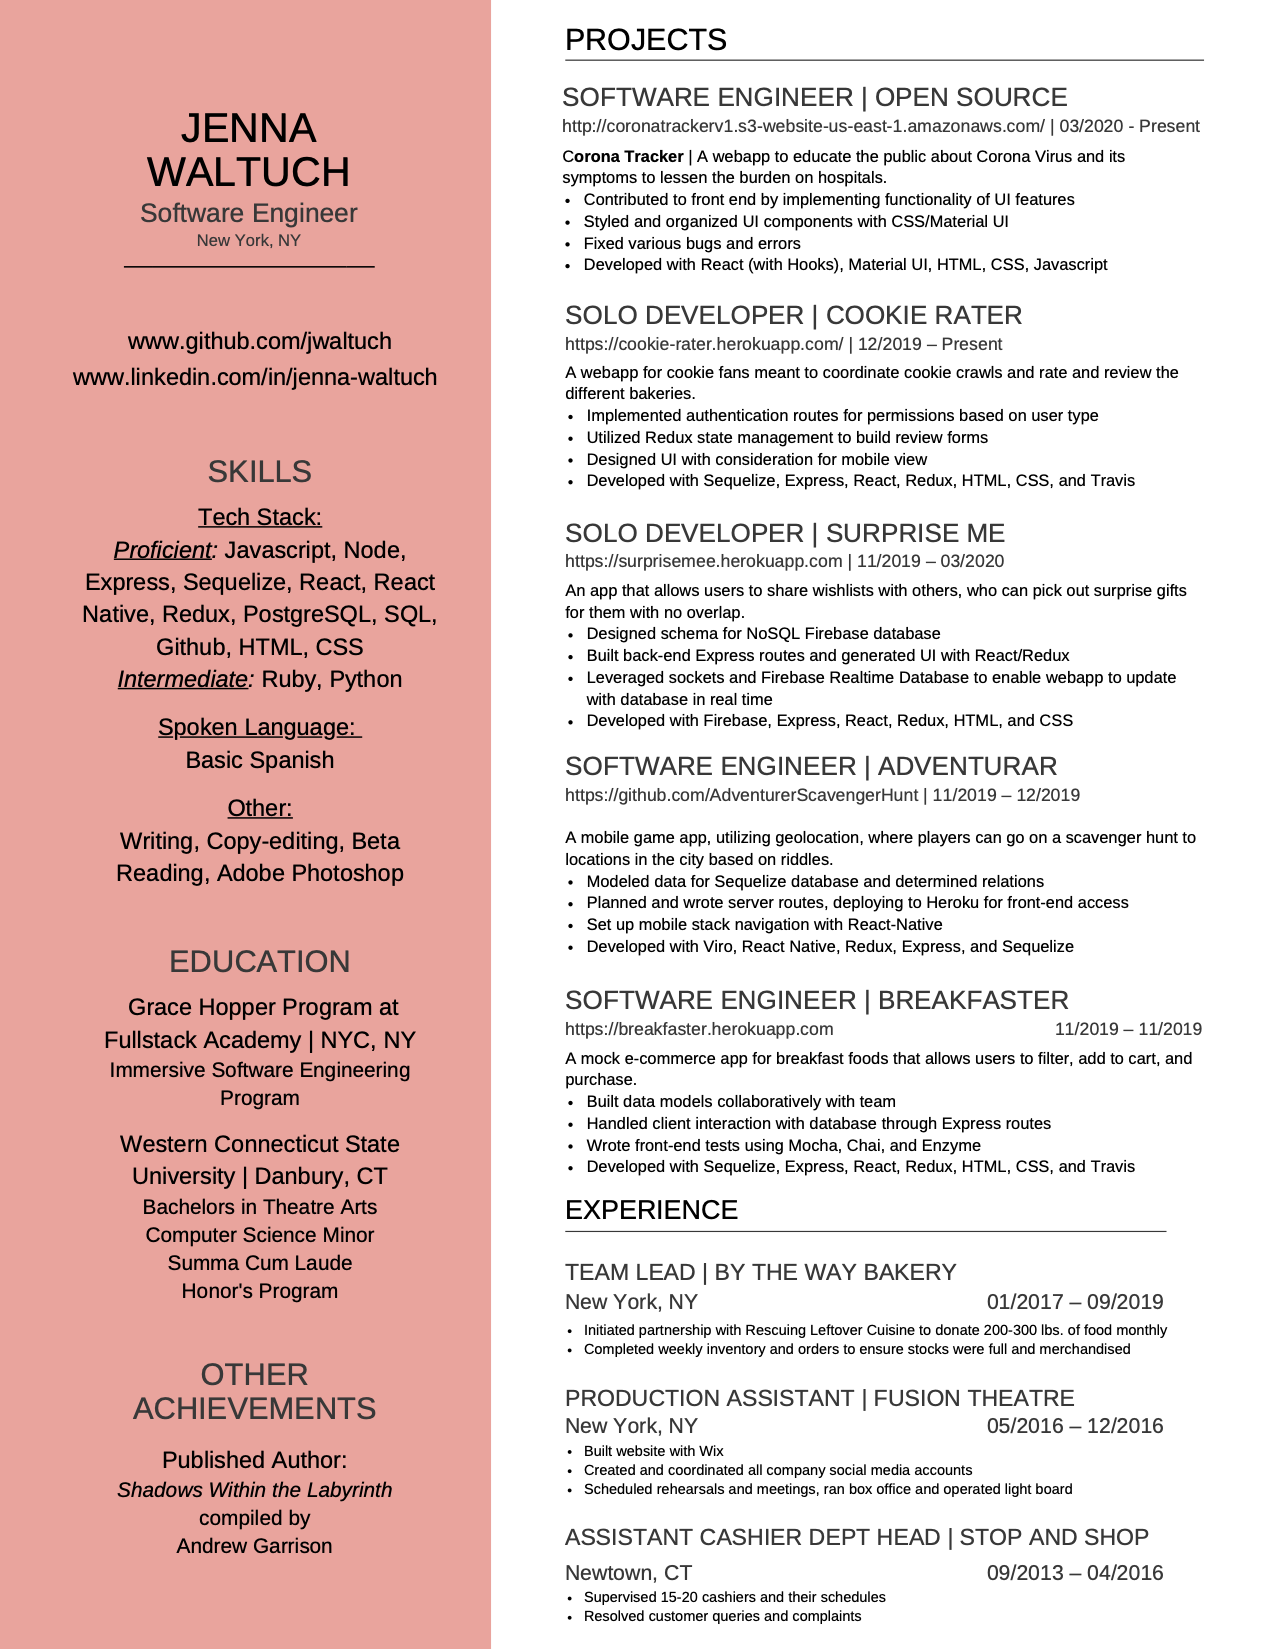
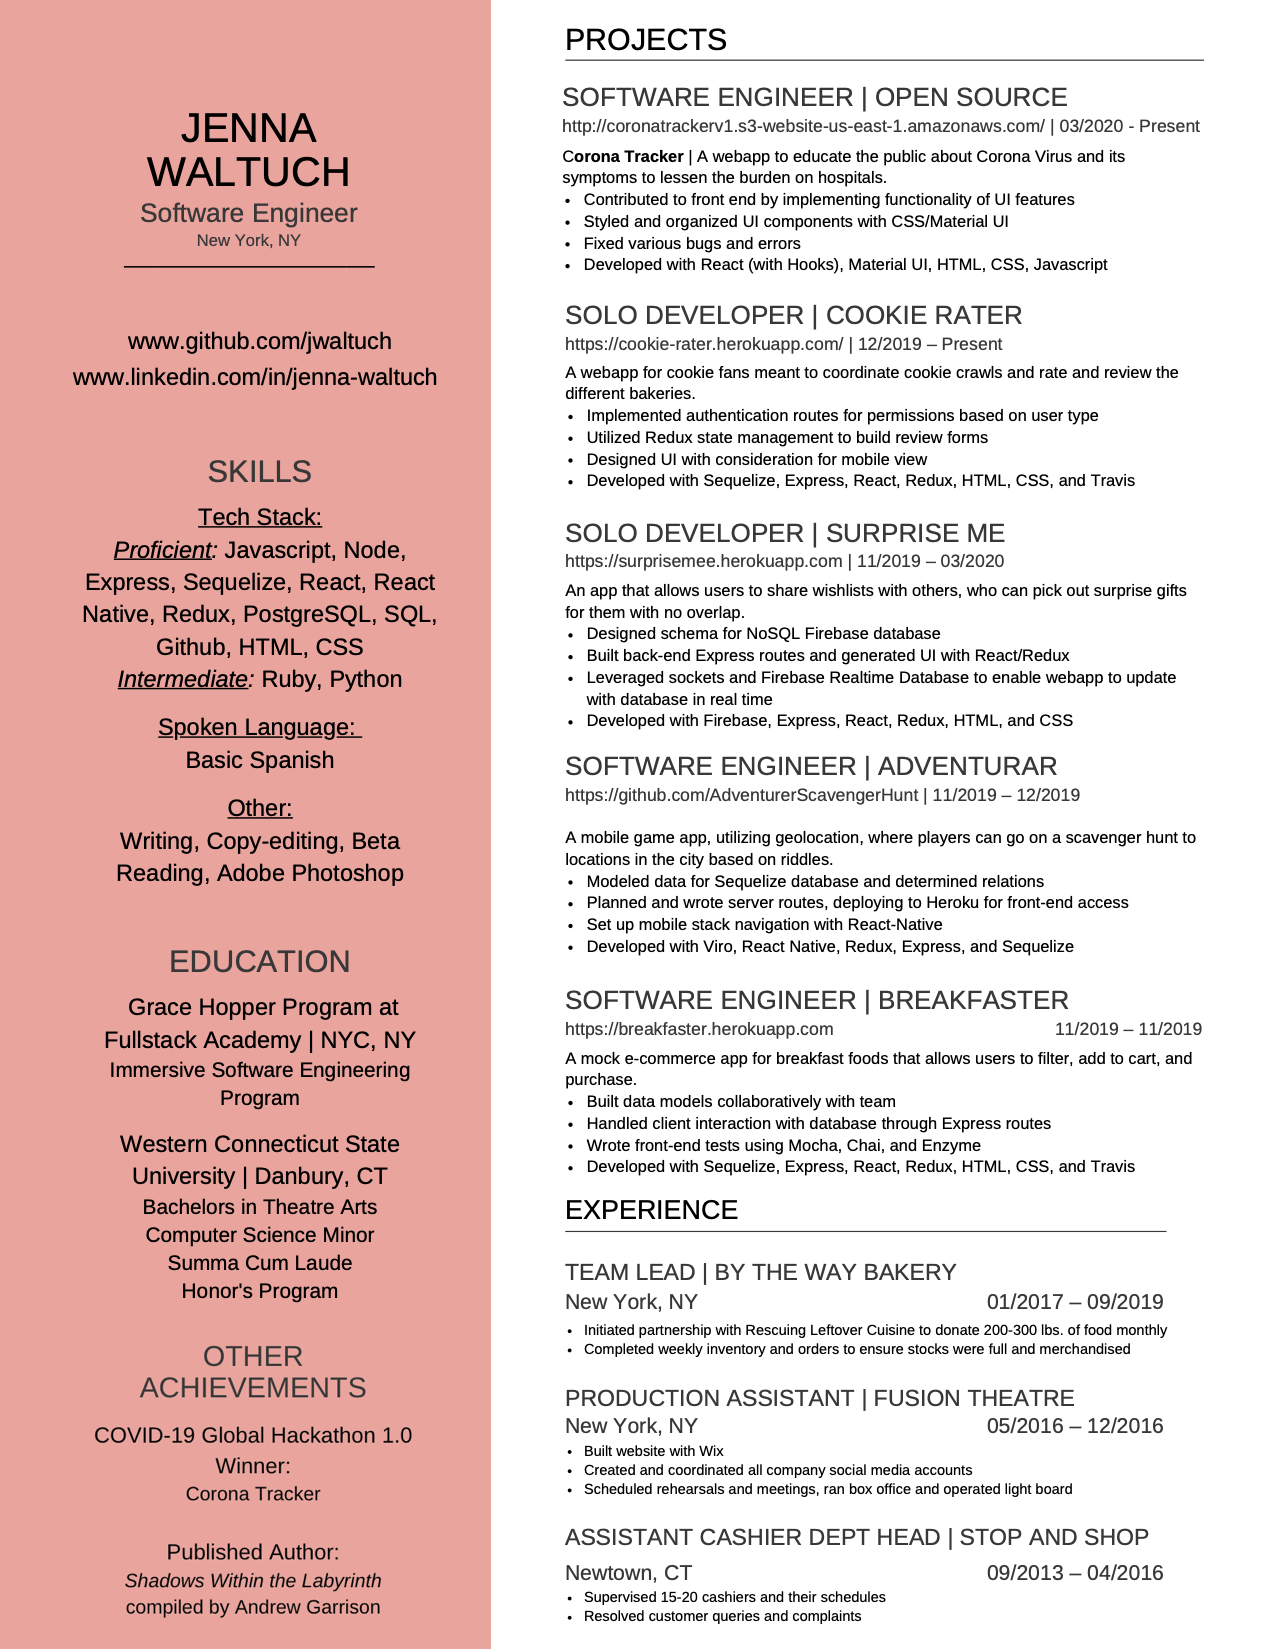
added photos, added footer, added corona tracker to projects, updated resume, added style to navbar

Changed region(s): [[0.0918, 0.8041, 0.3059, 0.9897]]

diff --git a/index.html b/index.html
@@ -32,7 +32,7 @@
       <section class="pink">
         <h1>About Me</h1>
         <div class="section-items">
-          <img src="http://placekitten.com/600/300" />
+          <img src="http://placekitten.com/550/300" />
           <div class="section-text">
             <div>
               I studied both theatre and computer science in college. After
@@ -59,7 +59,32 @@
         <h1>Projects</h1>
         <div class="section-items">
           <div class="section-text">
-            <h2>Cookie Rater</h2>
+            <h3>Corona Tracker</h3>
+            <div>
+              CoronaTracker is an easy-to-use and accessible progressive web
+              application that helps you monitor your wellness and stay informed
+              during the COVID-19 crisis, designed by an open-source community
+              invested in public health.
+            </div>
+            <div>
+              For this app, I contributed by building many front-end features,
+              writing tests, and styling with Material UI.
+            </div>
+            <div class="tech-stack">
+              Stack: React (with Hooks), Redux, Material UI, HTML/CSS,
+              Javascript, Blockstack/Gaia
+            </div>
+          </div>
+          <a href="https://coronatracker.me/"
+            ><img src="images/corona-tracker.png"
+          /></a>
+        </div>
+        <div class="section-items">
+          <a href="https://cookie-rater.herokuapp.com/"
+            ><img src="images/cookie-rater.jpg"
+          /></a>
+          <div class="section-text">
+            <h3>Cookie Rater</h3>
             <div>
               A webapp for cookie fans meant to coordinate cookie crawls in the
               city and let users rate and review the different bakeries.
@@ -73,16 +98,10 @@
               Stack: Sequelize, Express, React, Redux, HTML, CSS, and Travis
             </div>
           </div>
-          <a href="https://cookie-rater.herokuapp.com/"
-            ><img src="http://placekitten.com/600/300"
-          /></a>
         </div>
         <div class="section-items">
-          <a href="https://jwaltuch.github.io/mindfull-app/"
-            ><img src="http://placekitten.com/600/300"
-          /></a>
           <div class="section-text">
-            <h2>Mindfull</h2>
+            <h3>Mindfull</h3>
             <div>
               A webapp that promotes mindfulness while eating, inspired by the
               desire to help others combat over-snacking during self-quarantine.
@@ -96,10 +115,16 @@
               Stack: HTML, CSS, and Javascript.
             </div>
           </div>
+          <a href="https://jwaltuch.github.io/mindfull-app/"
+            ><img src="images/mindfull.png"
+          /></a>
         </div>
         <div class="section-items">
+          <a href="https://surprisemee.herokuapp.com/"
+            ><img src="images/surprise-me.png"
+          /></a>
           <div class="section-text">
-            <h2>Surprise Me!</h2>
+            <h3>Surprise Me!</h3>
             <div>
               Surprise Me! is the best way to surprise your friends and family
               with gifts they actually want. You can share your wishlist with
@@ -117,17 +142,10 @@
               managed with Travis.
             </div>
           </div>
-          <a href="https://surprisemee.herokuapp.com/"
-            ><img src="http://placekitten.com/600/300"
-          /></a>
         </div>
         <div class="section-items">
-          <a
-            href="https://www.youtube.com/watch?v=v--kLZ3nNhQ&list=PLx0iOsdUOUmnTCO5wLzNNeaLbbZLlngp6&index=6"
-            ><img src="http://placekitten.com/600/300"
-          /></a>
           <div class="section-text">
-            <h2>AdventurAR</h2>
+            <h3>AdventurAR</h3>
             <div>
               This mobile game app lets players go on a scavenger hunts,
               determining where to go by answering riddles. Users can either see
@@ -143,10 +161,17 @@
               Stack: Viro, React Native, Redux, Express and Sequelize.
             </div>
           </div>
+          <a
+            href="https://www.youtube.com/watch?v=v--kLZ3nNhQ&list=PLx0iOsdUOUmnTCO5wLzNNeaLbbZLlngp6&index=6"
+            ><img src="images/adventurAR.png"
+          /></a>
         </div>
         <div class="section-items">
+          <a href="https://breakfaster.herokuapp.com/home"
+            ><img src="images/breakfaster.png"
+          /></a>
           <div class="section-text">
-            <h2>Breakfaster</h2>
+            <h3>Breakfaster</h3>
             <div>
               A mock e-commerce app that lets users order breakfast foods on
               demand!
@@ -161,9 +186,6 @@
               CI/CD with Travis.
             </div>
           </div>
-          <a href="https://breakfaster.herokuapp.com/home"
-            ><img src="http://placekitten.com/600/300"
-          /></a>
         </div>
       </section>
       <div id="experience"></div>
@@ -196,5 +218,6 @@
         </div>
       </section>
     </div>
+    <div class="footer">© 2020 Jenna Waltuch</div>
   </body>
 </html>

diff --git a/style.css b/style.css
@@ -8,6 +8,7 @@
   background-color: white;
   width: 100%;
   margin: 0px;
+  box-shadow: 0 0 10px 0 rgba(0, 0, 0, 0.1);
 }
 
 #top {
@@ -18,6 +19,12 @@ li {
   list-style-type: none;
   padding: 1vw;
   margin: 1vw;
+}
+
+li:hover {
+  background-color: rgba(255, 192, 203, 1);
+  border-radius: 28px;
+  box-shadow: 0 0 10px 0 rgba(0, 0, 0, 0.1);
 }
 
 a {
@@ -39,11 +46,6 @@ h1 {
   justify-content: space-between;
   align-items: center;
 }
-
-/* .section-text {
-  padding-left: 1vw;
-  padding-right: 1vw;
-} */
 
 .pink {
   background-color: pink;
@@ -71,6 +73,7 @@ body {
   height: 20vh;
   margin-left: 2vw;
   margin-right: 2vw;
+  border: none;
 }
 
 .tech-stack {
@@ -111,4 +114,16 @@ button {
 button:hover {
   background-color: pink;
   transform: translate(-1px, -1px);
+}
+
+img {
+  width: 550px;
+  height: 300px;
+  border: solid black 1px;
+}
+
+.footer {
+  display: flex;
+  justify-content: flex-end;
+  font-size: 10px;
 }
